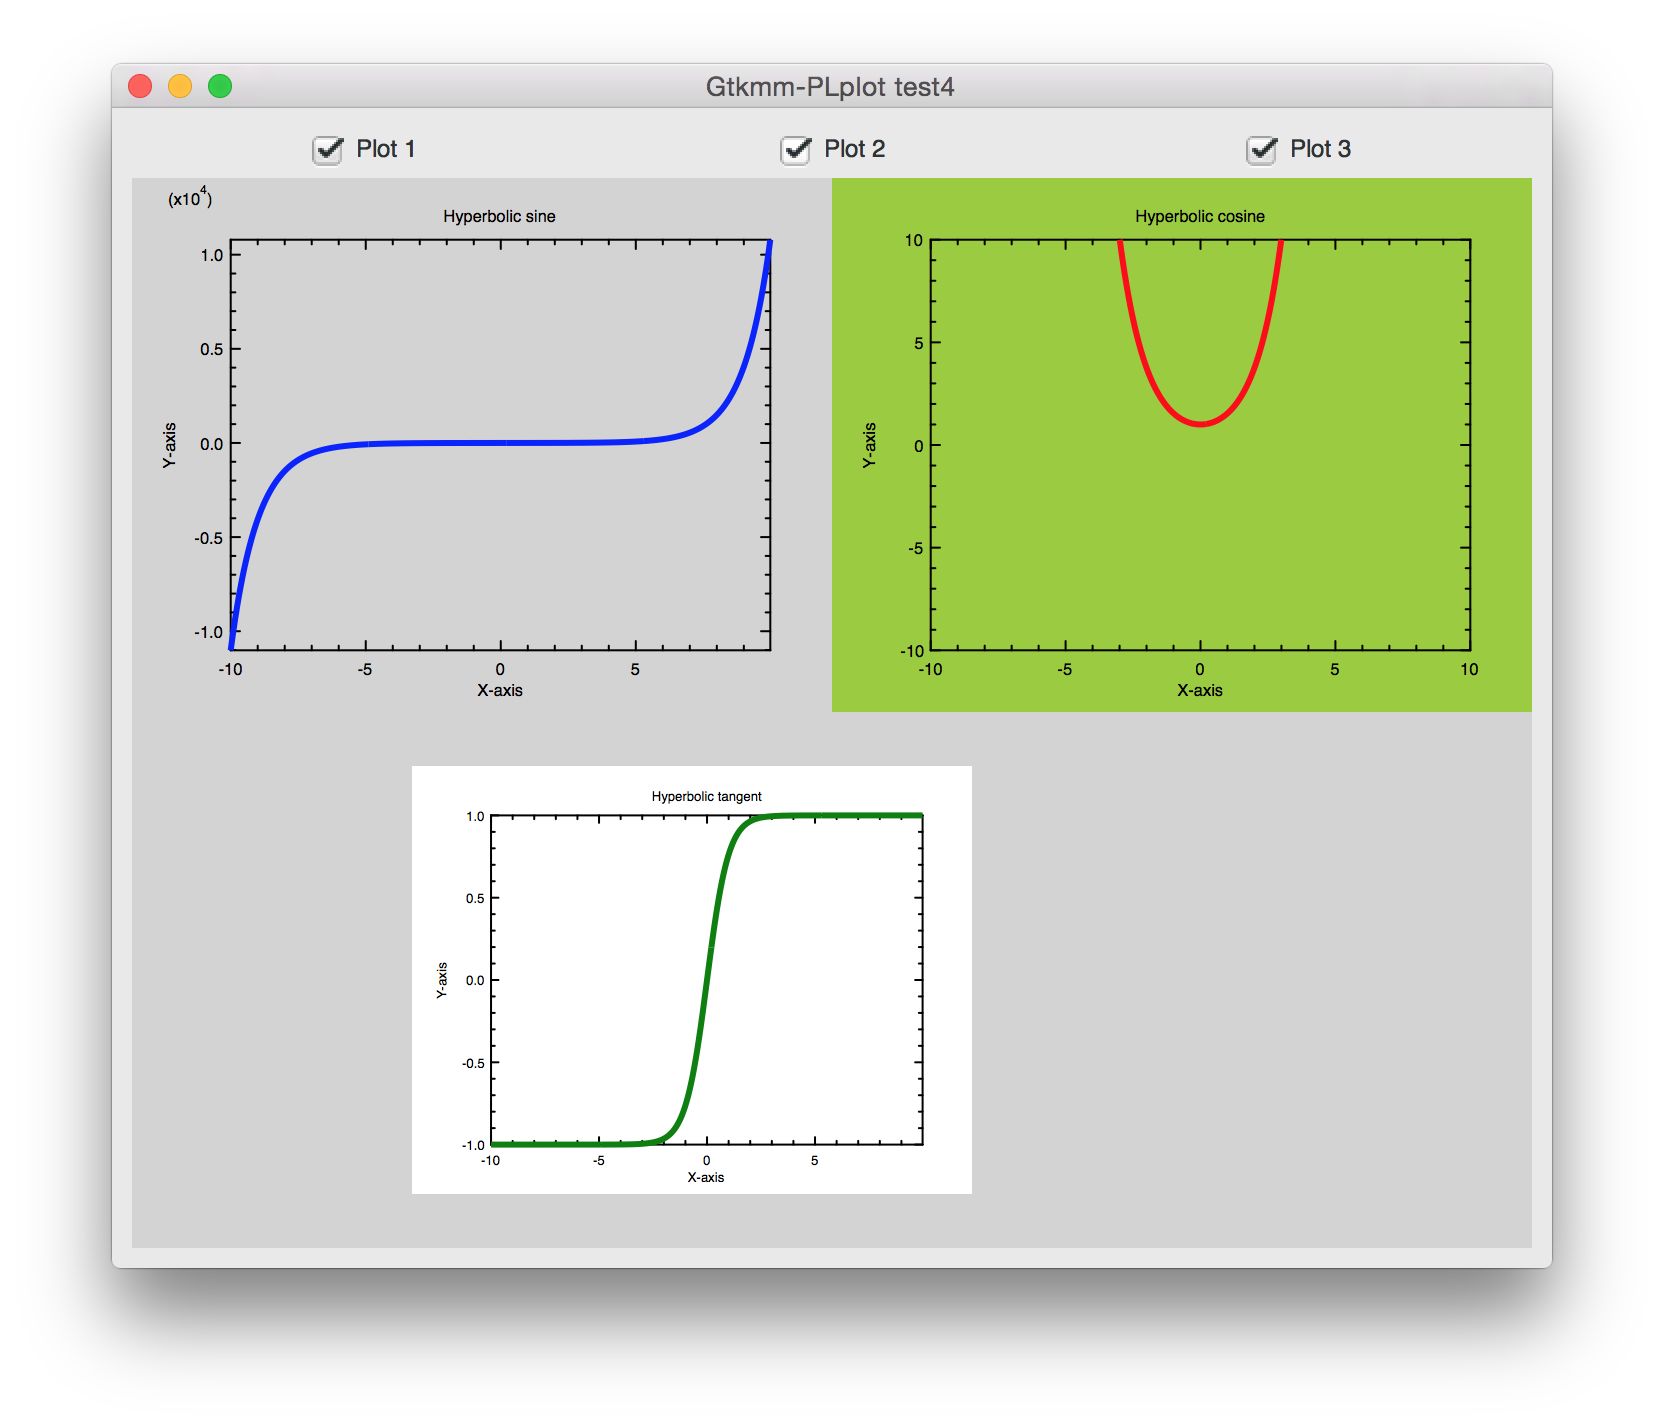
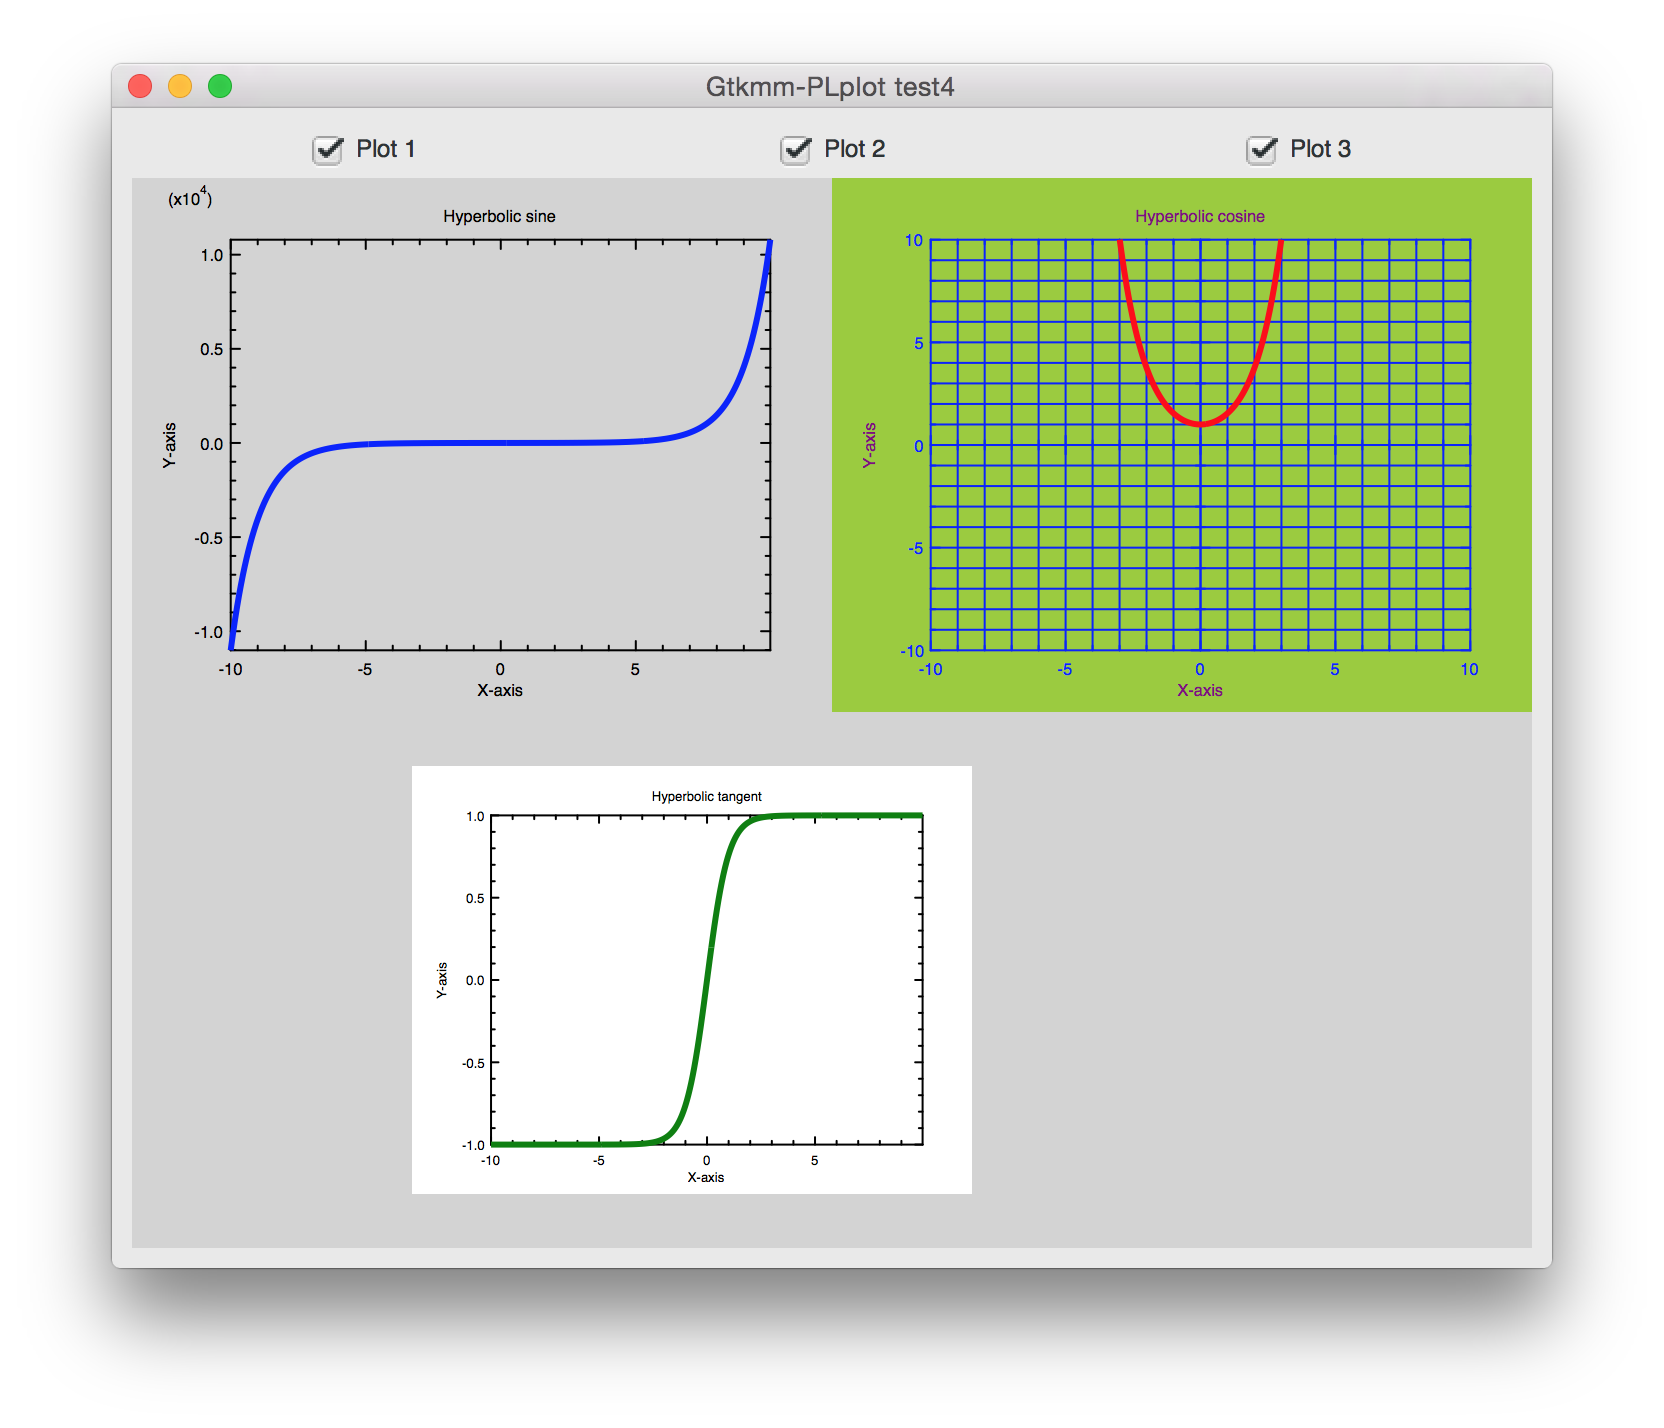
Plot2D: axes color, titles color, box style
linestyle.h renamed to enums.h

Changed region(s): [[0.5312, 0.1232, 0.875, 0.493]]

diff --git a/gtkmm-plplot/plot2d.h b/gtkmm-plplot/plot2d.h
@@ -19,6 +19,7 @@ along with this program.  If not, see <http://www.gnu.org/licenses/>.
 #define GTKMMPLPLOTPLOT2D_H
 
 #include <gtkmm-plplot/plot2ddata.h>
+#include <gtkmm-plplot/enums.h>
 #include <sigc++/sigc++.h>
 #include <vector>
 #include <plstream.h>
@@ -60,16 +61,21 @@ namespace Gtk {
       int plot_width; ///< the current width of the plot in Cairo units
       int plot_height; ///< the current height of the plot in Cairo units
       bool shown; ///< \c true means the plot is currently visible, \c false means it is not plotted
-      Gdk::RGBA background_color; ///< \c the currently used background color of the plot (default = fully transparent white, meaning that the background will be determined by the canvas)
+      Gdk::RGBA background_color; ///< the currently used background color of the plot (default = fully transparent white, meaning that the background will be determined by the canvas)
       double plot_width_norm; ///< the normalized plot width, calculated relative to the canvas width
       double plot_height_norm; ///< the normalized plot height, calculated relative to the canvas height
       double plot_offset_horizontal_norm; ///< the normalized horizontal offset from the canvas top left corner, calculated relative to the canvas width
       double plot_offset_vertical_norm; ///< the normalized vertical offset from the canvas top left corner, calculated relative to the canvas height
       bool region_selectable; ///< \c true indicates that a region on the plot can be selected by dragging a box with the mouse button pressed in when showing, or if double mouse button pressed event zooms out, \c false means not possible. The default is \c true
+      Gdk::RGBA axes_color; ///< the currently used color to draw the axes, the box and gridlines. Default is opaque black
+      Gdk::RGBA titles_color; ///< the currently used color to draw the axes and plot titles. Default is opaque black
+      BoxStyle box_style; ///< the currently used box style to draw the box, axes and grid
+
       sigc::signal<void, double, double, double, double > _signal_select_region; ///< signal that gets emitted whenever a new region was selected using the mouse pointer in Canvas::on_button_release_event()
       sigc::signal<void> _signal_changed; ///< signal that gets emitted whenever any of the plot parameters, or any of the contained Plot2DData datasets is changed.
       sigc::signal<void, Plot2DData *> _signal_data_added; ///< signal emitted whenever a new Plot2DData dataset is added to the plot
       sigc::signal<void> _signal_data_removed; ///< signal emitted whenever data is removed from the plot.
+
       void plot_data_modified(); ///< a private function that will update the \c _range variables when datasets are added, modified or removed.
       void convert_plplot_to_cairo_coordinates(
         double x_pl, double y_pl,
@@ -240,6 +246,18 @@ namespace Gtk {
        */
       Glib::ustring get_plot_title();
 
+      /** Set the box style
+       *
+       * \param style the new box style (default is BOX_TICKS_TICK_LABELS)
+       */
+      void set_box_style(BoxStyle style = BOX_TICKS_TICK_LABELS);
+
+      /** Get the box style
+       *
+       * \return the currently selected box style
+       */
+      BoxStyle get_box_style();
+
       /** Changes the visible plotted region
        *
        * Sets the axes range of the plotted box to the supplied parameters.
@@ -279,6 +297,30 @@ namespace Gtk {
        * \param color Set a new plot background color.
        */
       void set_background_color(Gdk::RGBA color);
+
+      /** Get the color to draw the axes, the box and gridlines
+       *
+       * \return The currently selected axes color.
+       */
+      Gdk::RGBA get_axes_color();
+
+      /** Set the color to draw the axes, the box and gridlines
+       *
+       * \param color Set a new axes color.
+       */
+      void set_axes_color(Gdk::RGBA color);
+
+      /** Get the color to draw the plot and axes titles
+       *
+       * \return The currently selected plot and axes color.
+       */
+      Gdk::RGBA get_titles_color();
+
+      /** Set the color to draw the plot and axes titles
+       *
+       * \param color Set a new titles color.
+       */
+      void set_titles_color(Gdk::RGBA color);
 
       /** Get whether regions can be selected on the plot by dragging the mouse while the button is clicked in.
        *

diff --git a/gtkmm-plplot/plot2d.cpp b/gtkmm-plplot/plot2d.cpp
@@ -50,7 +50,10 @@ Plot2D::Plot2D(
   plot_height_norm(_plot_height_norm),
   plot_offset_horizontal_norm(_plot_offset_horizontal_norm),
   plot_offset_vertical_norm(_plot_offset_vertical_norm),
-  region_selectable(true) {
+  region_selectable(true),
+  axes_color("Black"),
+  titles_color("Black"),
+  box_style(BOX_TICKS_TICK_LABELS) {
 
   background_color.set_alpha(0.0);
 
@@ -75,7 +78,10 @@ Plot2D::Plot2D(const Plot2D &_source) :
   plot_height_norm(_source.plot_height_norm),
   plot_offset_horizontal_norm(_source.plot_offset_horizontal_norm),
   plot_offset_vertical_norm(_source.plot_offset_vertical_norm),
-  region_selectable(_source.region_selectable) {
+  region_selectable(_source.region_selectable),
+  axes_color(_source.axes_color),
+  titles_color(_source.titles_color),
+  box_style(_source.box_style) {
 
   this->signal_select_region().connect(sigc::mem_fun(*this, &Plot2D::on_select_region));
   this->signal_changed().connect(sigc::mem_fun(*this, &Plot2D::on_changed));
@@ -228,7 +234,16 @@ Glib::ustring Plot2D::get_plot_title() {
   return plot_title;
 }
 
-//it's possible I can get the width and height also from the Cairo context throught its surface
+void Plot2D::set_box_style(BoxStyle _box_style) {
+  box_style = _box_style;
+  _signal_changed.emit();
+}
+
+BoxStyle Plot2D::get_box_style() {
+  return box_style;
+}
+
+//it's possible I can get the width and height also from the Cairo context through its surface
 //problem is that this only works for image surfaces, not for PDF etc :-(
 void Plot2D::draw_plot(const Cairo::RefPtr<Cairo::Context> &cr, const int width, const int height) {
   if (!shown)
@@ -254,27 +269,47 @@ void Plot2D::draw_plot(const Cairo::RefPtr<Cairo::Context> &cr, const int width,
   cr->translate(plot_offset_x, plot_offset_y);
   pls->init();
 
-  //Gdk::RGBA color = get_style_context()->get_color();
-  //Gdk::Cairo::set_source_rgba(cr, color);
   pls->cmd(PLESC_DEVINIT, cr->cobj());
-  pls->col0(0);
 
   int plplot_axis_style;
 
-  if (log10_x && log10_y)
-    plplot_axis_style = PLPLOT_LOG_LOG;
-  else if (log10_x)
-    plplot_axis_style = PLPLOT_LOG_LIN;
-  else if (log10_y)
-    plplot_axis_style = PLPLOT_LIN_LOG;
-  else
-    plplot_axis_style = PLPLOT_LIN_LIN;
+  plplot_axis_style = box_style;
 
+  if (box_style >= 0 ) {
+    if (log10_x && log10_y)
+      plplot_axis_style += PLPLOT_LOG_LOG;
+    else if (log10_x)
+      plplot_axis_style += PLPLOT_LOG_LIN;
+    else if (log10_y)
+      plplot_axis_style += PLPLOT_LIN_LOG;
+    else
+      plplot_axis_style += PLPLOT_LIN_LIN;
+  }
+
+  //set the axes color
+  PLINT red_u_old, green_u_old, blue_u_old;
+  PLFLT alpha_old;
+
+  pls->gcol0a(5, red_u_old, green_u_old, blue_u_old, alpha_old);
+  pls->scol0a(5, axes_color.get_red_u()/256, axes_color.get_green_u()/256, axes_color.get_blue_u()/256, axes_color.get_alpha());
+  pls->col0(5);
+
+  //plot the box with its axes
   pls->env(plotted_range_x[0], plotted_range_x[1],
            plotted_range_y[0], plotted_range_y[1],
            0, plplot_axis_style);
+  //restore color
+  pls->scol0a(5, red_u_old, green_u_old, blue_u_old, alpha_old);
+
+  //set the label color
+  pls->gcol0a(5, red_u_old, green_u_old, blue_u_old, alpha_old);
+  pls->scol0a(5, titles_color.get_red_u()/256, titles_color.get_green_u()/256, titles_color.get_blue_u()/256, titles_color.get_alpha());
+  pls->col0(5);
 
   pls->lab(axis_title_x.c_str(), axis_title_y.c_str(), plot_title.c_str());
+
+  //restore color
+  pls->scol0a(5, red_u_old, green_u_old, blue_u_old, alpha_old);
 
   for (auto &iter : plot_data) {
     iter->draw_plot_data(cr, pls, log10_x, log10_y);
@@ -372,6 +407,24 @@ Gdk::RGBA Plot2D::get_background_color() {
 
 void Plot2D::set_background_color(Gdk::RGBA _background_color) {
   background_color = _background_color;
+  _signal_changed.emit();
+}
+
+Gdk::RGBA Plot2D::get_axes_color() {
+  return axes_color;
+}
+
+void Plot2D::set_axes_color(Gdk::RGBA _axes_color) {
+  axes_color = _axes_color;
+  _signal_changed.emit();
+}
+
+Gdk::RGBA Plot2D::get_titles_color() {
+  return titles_color;
+}
+
+void Plot2D::set_titles_color(Gdk::RGBA _titles_color) {
+  titles_color = _titles_color;
   _signal_changed.emit();
 }
 

diff --git a/gtkmm-plplot/enums.h b/gtkmm-plplot/enums.h
@@ -15,8 +15,8 @@ You should have received a copy of the GNU General Public License
 along with this program.  If not, see <http://www.gnu.org/licenses/>.
 */
 
-#ifndef GTKMMPLPLOTLINESTYLE_H
-#define GTKMMPLPLOTLINESTYLE_H
+#ifndef GTKMMPLPLOTENUMS_H
+#define GTKMMPLPLOTENUMS_H
 
 namespace Gtk {
   namespace PLplot {
@@ -25,7 +25,7 @@ namespace Gtk {
      * To be used in combination with Plot2DData constructors and the Plot2DData::set_line_style() and Plot2DData::get_line_style() methods.
      */
     enum LineStyle {
-      NONE = 0, ///< No line will be plotted
+      NONE = 0, ///< no line will be plotted
       CONTINUOUS, ///< a continuous, uninterrupted line will be drawn
       SHORT_DASH_SHORT_GAP, ///< a line consisting of alternating short dashes and short gaps
       LONG_DASH_LONG_GAP, ///<  a line consisting of alternating long dashes and long gaps
@@ -34,6 +34,19 @@ namespace Gtk {
       LONG_DASH_SHORT_GAP_LONG_DASH_SHORT_GAP, ///< a line consisting of repeating sequences of a long dash, a short gap, a long dash and a short gap
       SHORT_DASH_SHORT_GAP_MEDIUM_DASH_MEDIUM_GAP_LONG_DASH_LONG_GAP, ///< a line consisting of repeating sequences of a short dash, short gap, medium dash, medium gap, long dash and a long gap
       SHORT_DASH_SHORT_GAP_MEDIUM_DASH_SHORT_GAP_LONG_DASH_SHORT_GAP ///< a line consisting of repeating sequences of a short dash, short gap, medium dash, short gap, long dash and a short gap
+    };
+
+    /** Controls the appearance of the box around the plot
+     *
+     * To be used in combination with Plot2D::set_box_style() and Plot2D::get_box_style()
+     */
+    enum BoxStyle {
+      NO_BOX_NO_TICKS_NO_LABELS_NO_AXES = -2, ///< draw no box, no tick marks, no numeric tick labels, no axes
+      BOX_ONLY = -1, ///< draw box only
+      BOX_TICKS_TICK_LABELS = 0, ///< draw box, ticks, and numeric tick labels. This is the default
+      BOX_TICKS_TICK_LABELS_MAIN_AXES = 1, ///< also draw coordinate axes at x=0 and y=0
+      BOX_TICKS_TICK_LABELS_MAIN_AXES_MAJOR_TICK_GRID = 2, ///< also draw a grid at major tick positions in both coordinates
+      BOX_TICKS_TICK_LABELS_MAIN_AXES_MAJOR_MINOR_TICK_GRID = 3, ///< also draw a grid at minor tick positions in both coordinates
     };
   }
 }

diff --git a/tests/test4.cpp b/tests/test4.cpp
@@ -97,6 +97,10 @@ namespace Test4 {
       canvas.get_plot(1)->set_region_selectable(false);
       //let's override the default region of this plot, this is NOT influenced by set_region_selectable()!!!
       canvas.get_plot(1)->set_region(-10, 10, -10, 10);
+      //we can also change some other colors
+      canvas.get_plot(1)->set_axes_color(Gdk::RGBA("Blue"));
+      canvas.get_plot(1)->set_titles_color(Gdk::RGBA("Purple"));
+      canvas.get_plot(1)->set_box_style(Gtk::PLplot::BOX_TICKS_TICK_LABELS_MAIN_AXES_MAJOR_MINOR_TICK_GRID);
 
       //lets'give the third plot a nice opaque background color
       canvas.get_plot(2)->set_background_color(Gdk::RGBA("White"));

diff --git a/gtkmm-plplot/gtkmm-plplot.h b/gtkmm-plplot/gtkmm-plplot.h
@@ -19,8 +19,8 @@ along with this program.  If not, see <http://www.gnu.org/licenses/>.
 #define GTKMM_PLPLOT_H
 
 #include <gtkmm-plplot/canvas.h>
+#include <gtkmm-plplot/enums.h>
 #include <gtkmm-plplot/exception.h>
-#include <gtkmm-plplot/linestyle.h>
 #include <gtkmm-plplot/plot2d.h>
 #include <gtkmm-plplot/plot2ddata.h>
 #include <gtkmm-plplot/utils.h>

diff --git a/gtkmm-plplot/plot2ddata.h b/gtkmm-plplot/plot2ddata.h
@@ -21,7 +21,7 @@ along with this program.  If not, see <http://www.gnu.org/licenses/>.
 #include <sigc++/sigc++.h>
 #include <vector>
 #include <valarray>
-#include <gtkmm-plplot/linestyle.h>
+#include <gtkmm-plplot/enums.h>
 #include <plstream.h>
 #include <glibmm/ustring.h>
 #include <cairomm/cairomm.h>
